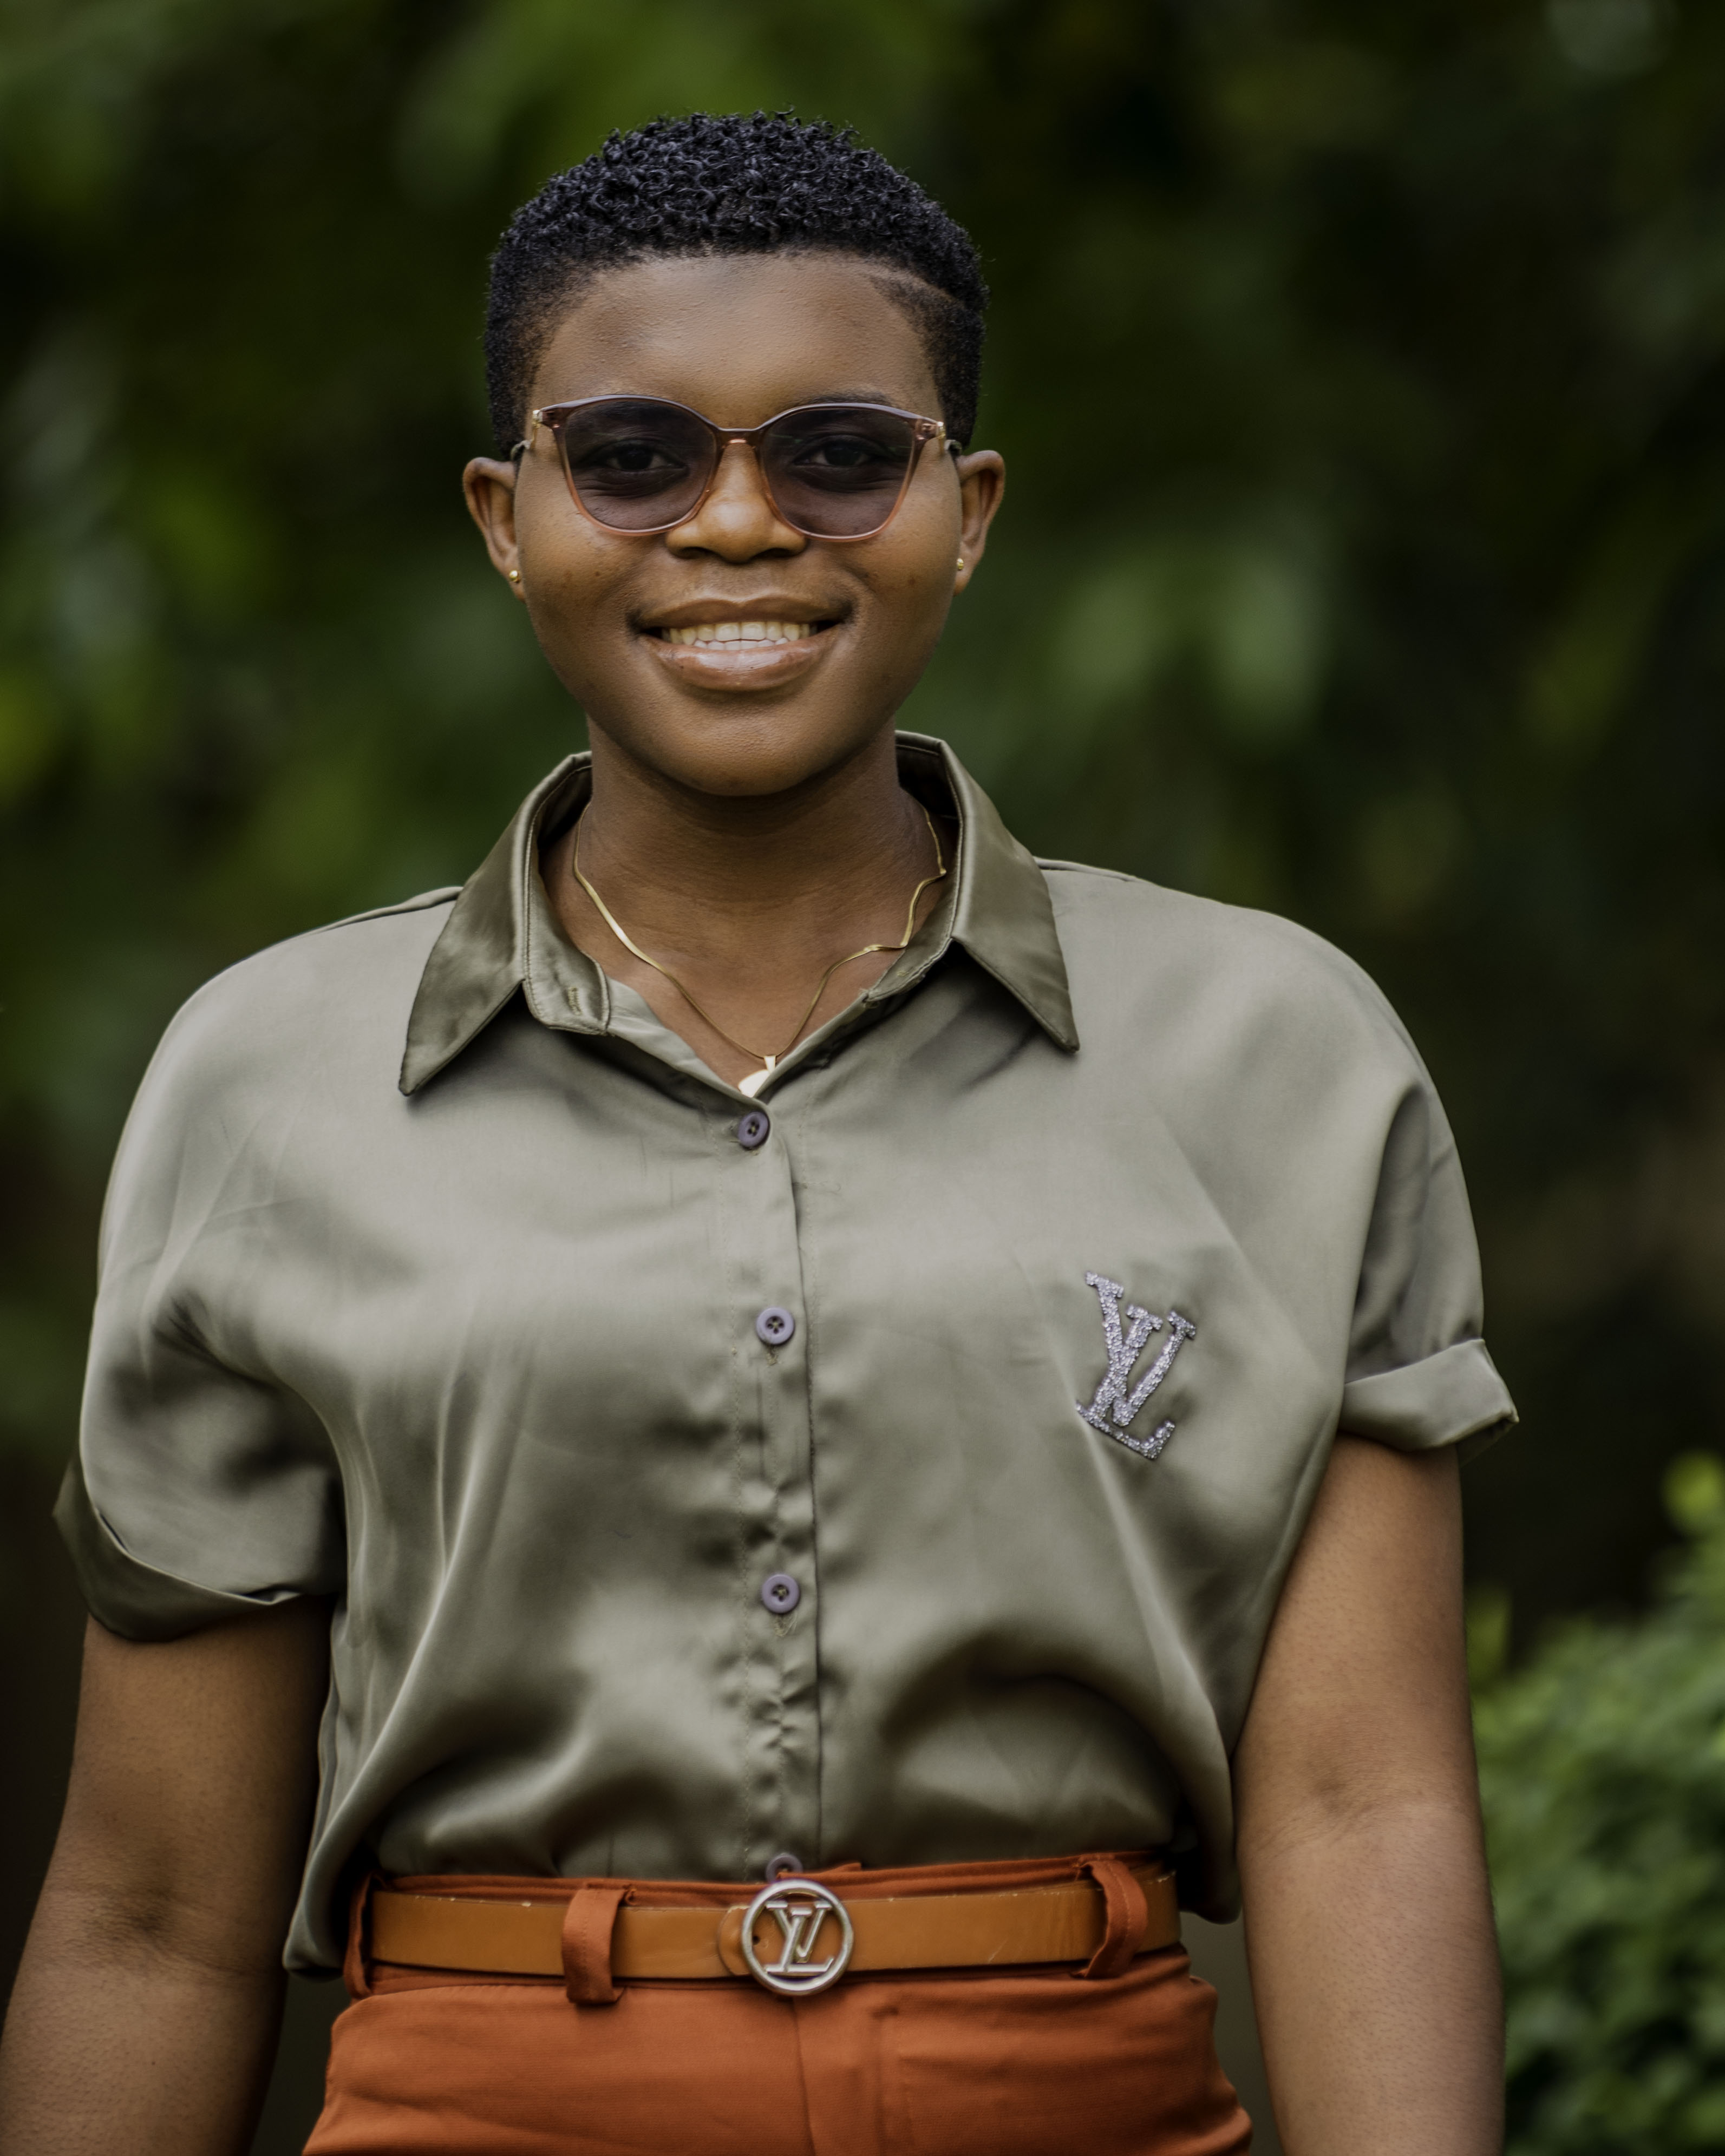
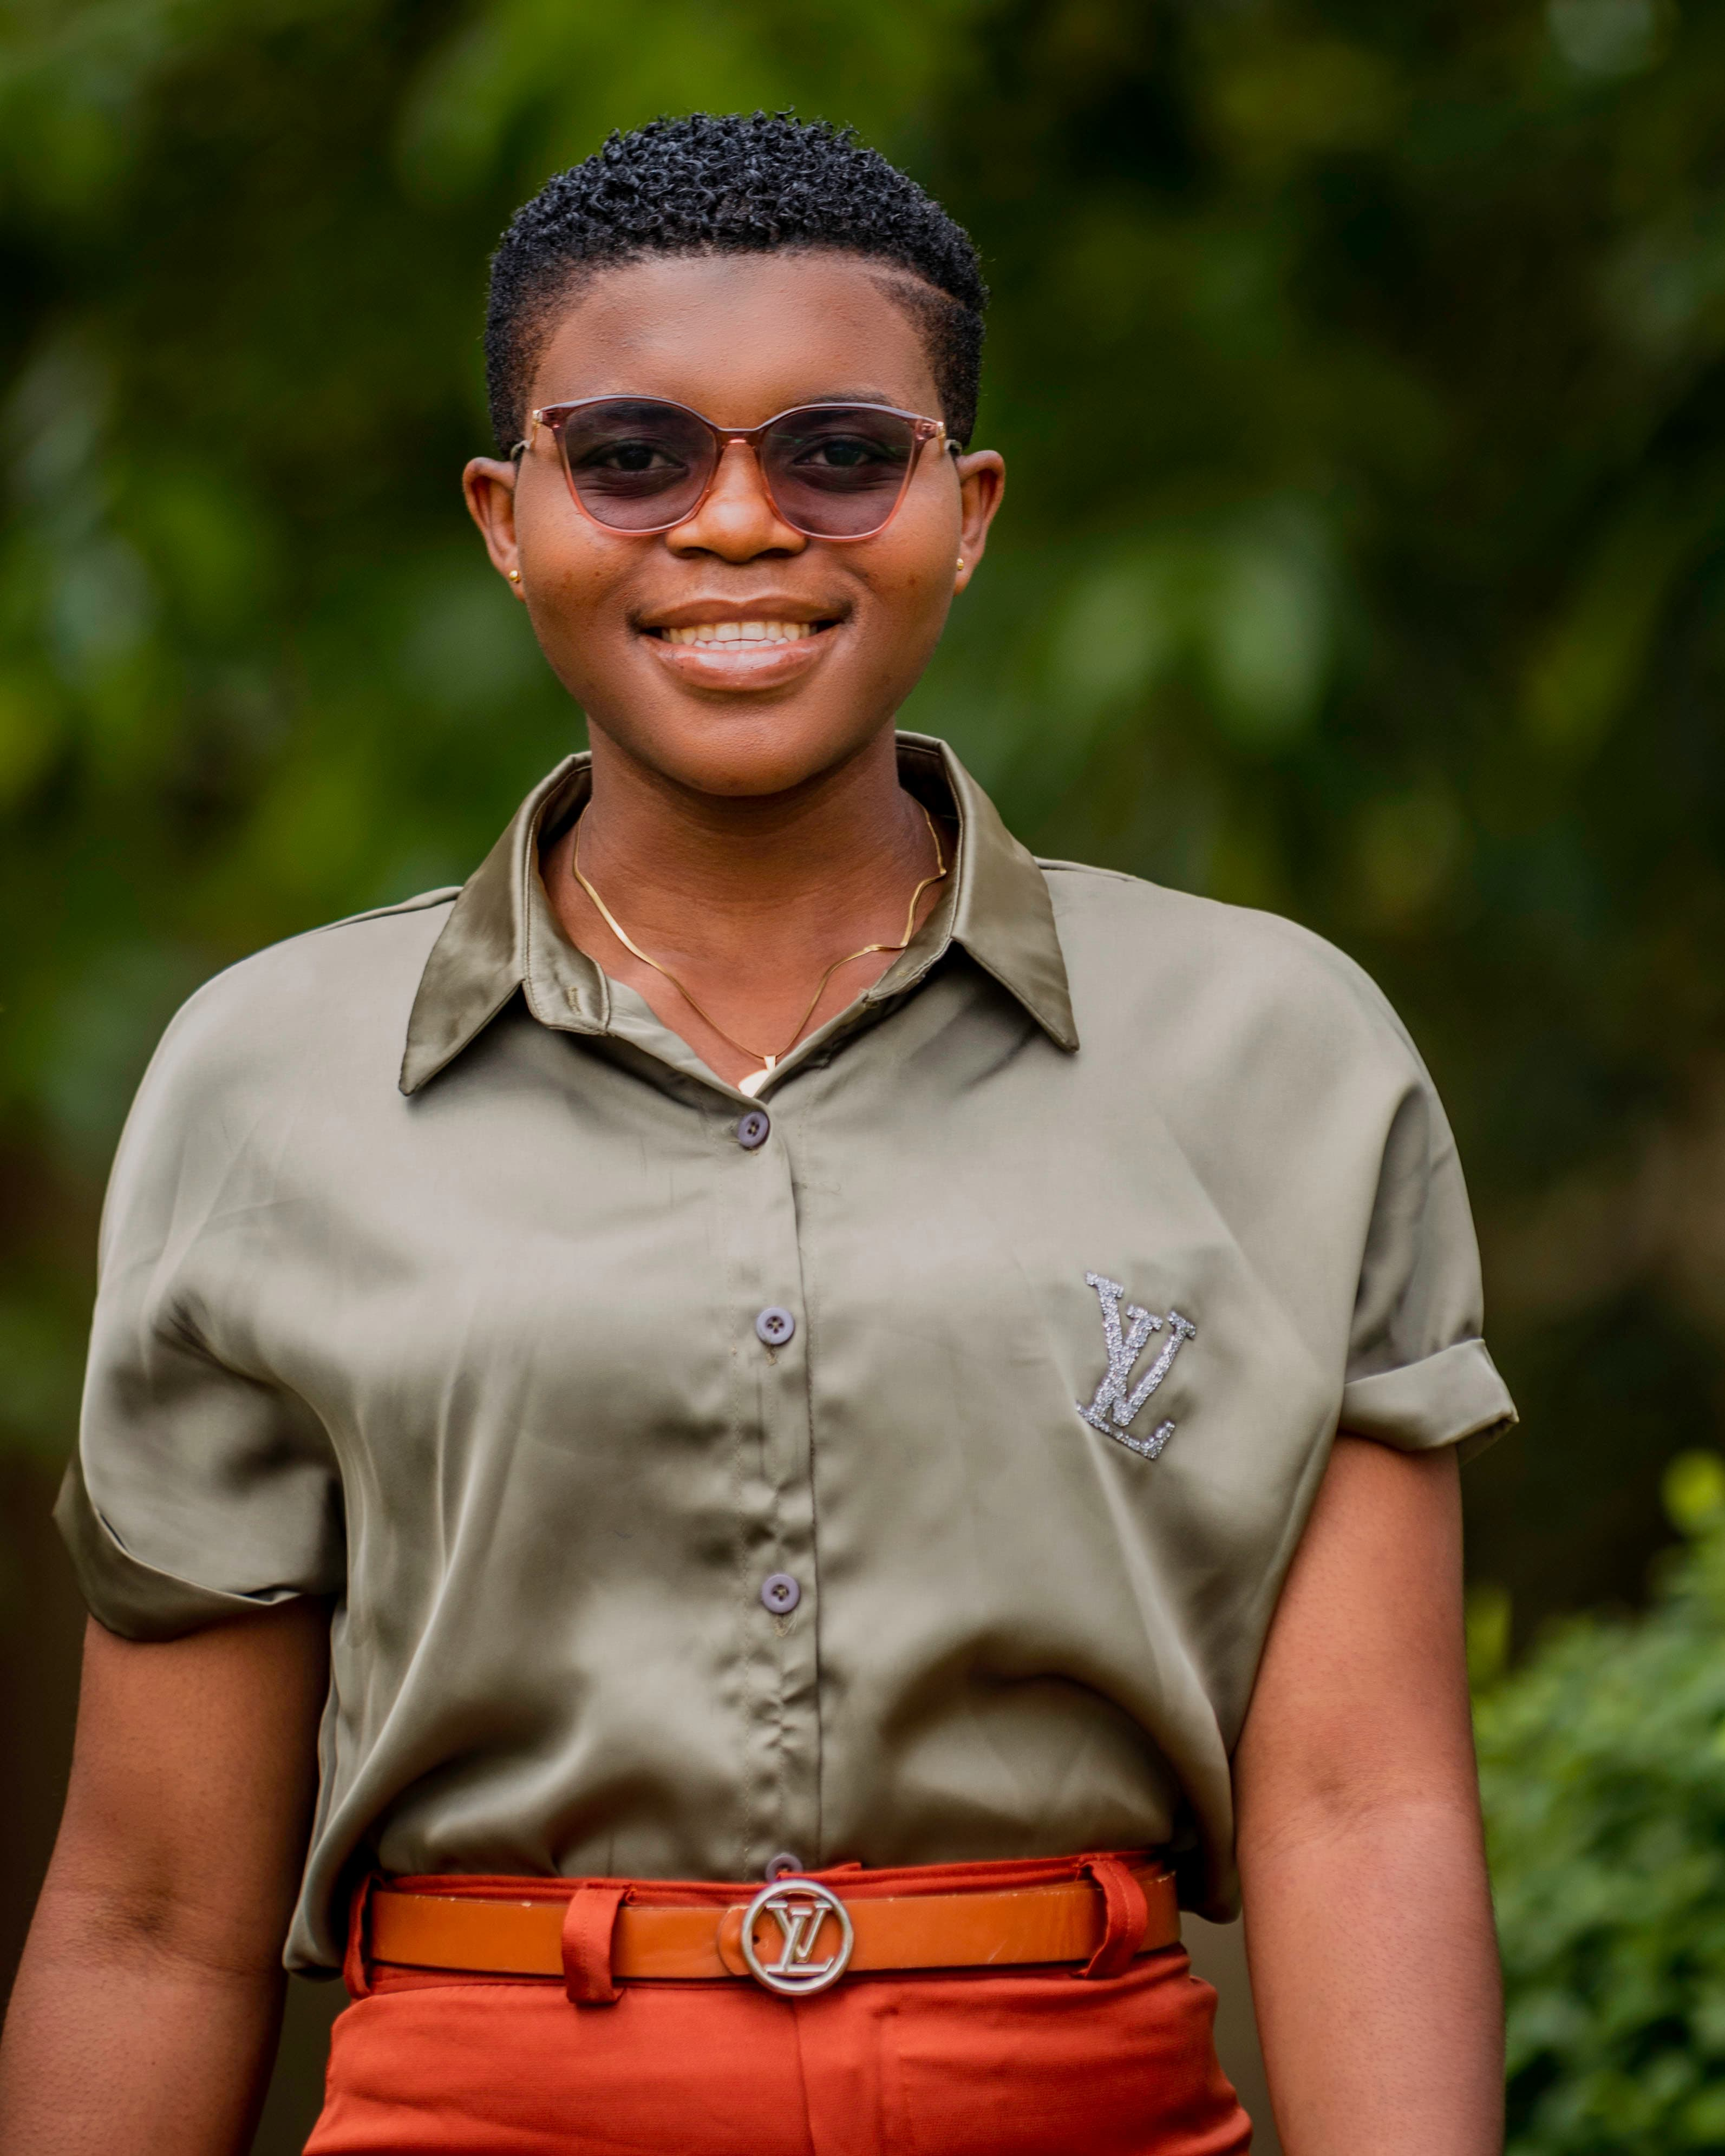
good

diff --git a/css/style.css b/css/style.css
@@ -22,7 +22,7 @@ html{
 }
 
 body{
-  background-image: url(../img/bac.png);
+  background-image: url(../img/bac.jpg);
   background-repeat: no-repeat;
   background-size: cover;
   background-attachment: fixed;

diff --git a/css/style2.css b/css/style2.css
@@ -23,7 +23,7 @@ html{
 }
 
 body{
-  background-image: url(../img/bac.png);
+  background-image: url(../img/bac.jpg);
   background-repeat: no-repeat;
   background-size: cover;
   background-attachment: fixed;

diff --git a/css/style3.css b/css/style3.css
@@ -22,7 +22,7 @@ html{
 }
 
 body{
-  background-image: url(../img/bac.png);
+  background-image: url(../img/bac.jpg);
   background-repeat: no-repeat;
   background-size: cover;
   background-attachment: fixed;

diff --git a/css/style4.css b/css/style4.css
@@ -22,7 +22,7 @@ html{
 }
 
 body{
-  background-image: url(../img/bac.png);
+  background-image: url(../img/bac.jpg);
   background-repeat: no-repeat;
   background-size: cover;
   background-attachment: fixed;

diff --git a/css/style5.css b/css/style5.css
@@ -22,7 +22,7 @@ html{
 }
 
 body{
-  background-image: url(../img/bac.png);
+  background-image: url(../img/bac.jpg);
   background-repeat: no-repeat;
   background-size: cover;
   background-attachment: fixed;